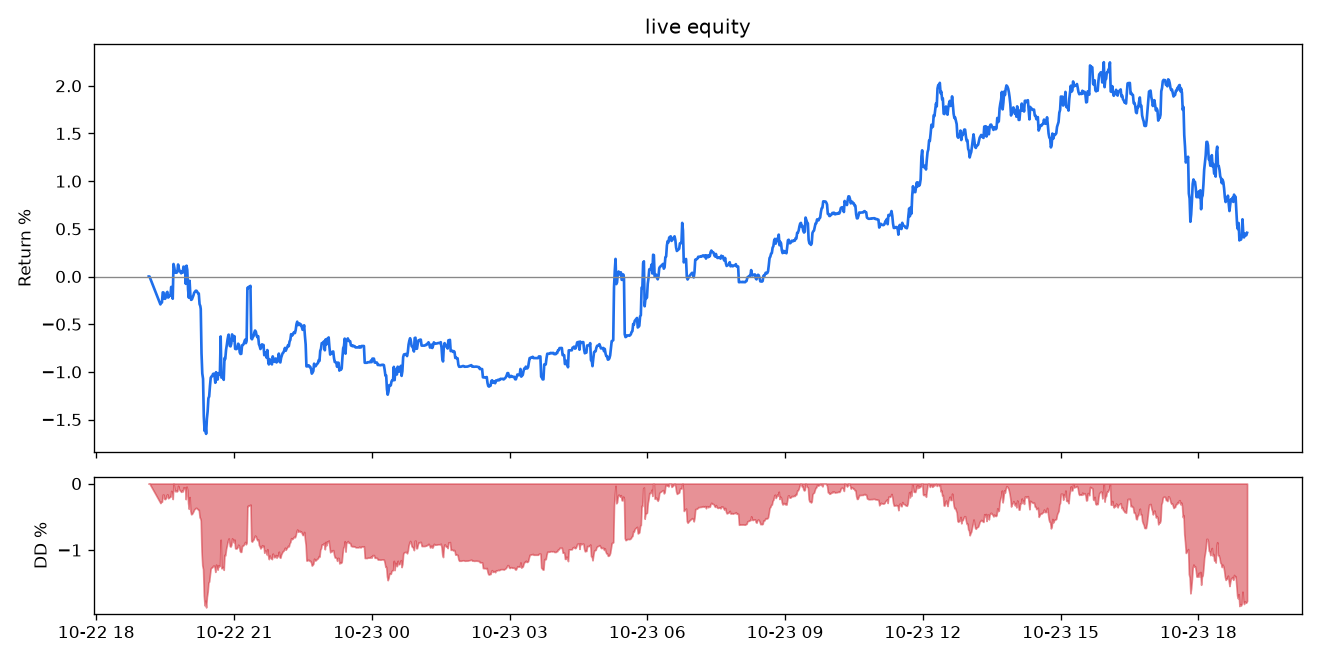
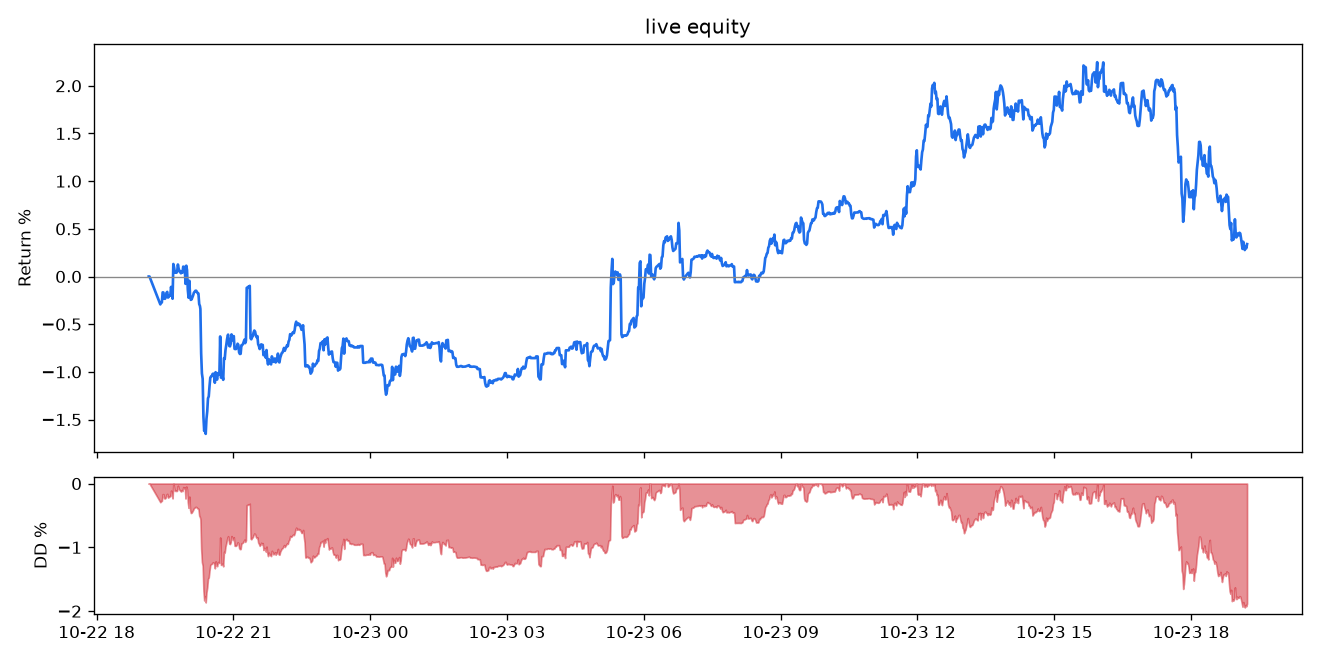
logs 2026-10-23 19:14 (live)

diff --git a/logs/report.md b/logs/report.md
@@ -35,25 +35,25 @@
 
 ## LIVE
 
-- Equity: **5,022,929 TMN** (+0.459%)
-- Max drawdown: **1.864%**
+- Equity: **5,016,997 TMN** (+0.340%)
+- Max drawdown: **1.942%**
 - Traded volume: 0 TMN
 
 ![equity](equity_live.png)
 
-- AI supervisor decisions: 72 (sources: {'llm:boxapi': 72})
-- Events: {'coin_skipped': 427, 'live_self_test': 61, 'cancel_all': 9, 'startup': 9, 'regime': 9, 'policy': 72, 'sleeve_order': 171, 'quote': 2032, 'buy_blocked': 5150, 'buy_unblocked': 5102, 'state_restored': 60, 'sleeve_fill': 10, 'orphan_adopted': 1}
+- AI supervisor decisions: 73 (sources: {'llm:boxapi': 73})
+- Events: {'coin_skipped': 427, 'live_self_test': 61, 'cancel_all': 9, 'startup': 9, 'regime': 9, 'policy': 73, 'sleeve_order': 171, 'quote': 2043, 'buy_blocked': 5182, 'buy_unblocked': 5134, 'state_restored': 60, 'sleeve_fill': 10, 'orphan_adopted': 1}
 
 ### Latest AI decision
 ```json
 {
   "markets": {
-    "CHZ": 0.9,
-    "FIL": 0.95,
-    "GALA": 1.2
+    "ARB": 1.2,
+    "CAKE": 1.0,
+    "CHZ": 1.4
   },
   "pause": false,
-  "reasoning": "Pick CHZ, FIL, GALA because they have the widest Toman spreads: CHZ 170.7 bps, GALA 120.0 bps, FIL 98.0 bps; CHZ and FIL also show low fv_vol (53.7 and 56.2 bps) so we can quote slightly tighter. Set h conservative near upper-mid range: CHZ 0.9% (large spread, low fv_vol), FIL 0.95% (large premium 137.9 bps and wide USDT spread 368 bps), GALA 1.2% (higher fv_vol 208.9 bps so wider to avoid adverse selection). No pause — no market-wide shock visible. Sleeves: keep rial at full 1.0 exposure because USDT/TMN 48h +3.08% (regime cap=1.0) and the sleeve is sized for rial weakening, and keep beta at 0.8 (current scale_now 0.8, beta returning +2.22% on value_tmn 1.867M); beta assets remain PEPE/ADA/LINK per current weights and momentum.",
+  "reasoning": "I pick ARB (spread 117.9 bps, vol24h 15,567M TMN, usdt_spread 106.1 bps, fv_vol 295.5 bps) with a wide h=1.2% to earn the large Toman spread while respecting moderate FV volatility. I pick CAKE (spread 127.2 bps, vol24h 2,894M, fv_vol 143.4 bps) with h=1.0% because spread is wide and FV volatility is lower so a slightly tighter quote is acceptable. I pick CHZ (spread 185.0 bps, vol24h 1,440M, fv_vol 474.5 bps) with h=1.4% because its very wide spread but high FV volatility calls for the widest half-spread to avoid adverse selection. I avoid markets with buy_blocked flags (DOT/IMX/BCH/UNI/WLD) and ignore coins with spread <80 bps (e.g. SOL, XRP, BNB, FIL) per the rule. Sleeves: keep rial at full 1.0 exposure since USDT/TMN 48h is +2.35% (regime cap 1.0) and the sleeve is already scaled there; keep beta at 0.8 (current scale_now) and concentrate on PEPE/ADA/LINK which are the beta weights with recent positive performance (beta value +1.72% and scale reduced to 0.8).",
   "tool_trace": [],
   "source": "llm:boxapi"
 }
